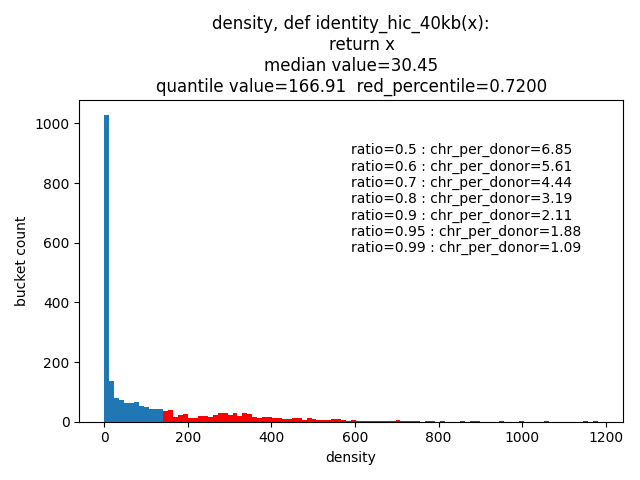
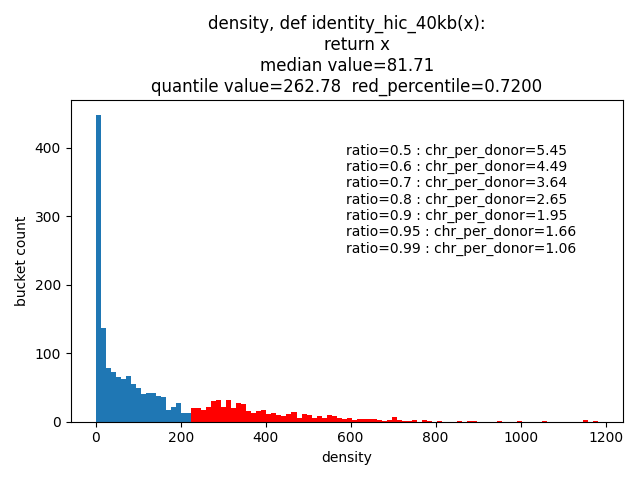
seek compare

diff --git a/DonorAnalyzer.py b/DonorAnalyzer.py
@@ -252,9 +252,10 @@ def main():
 
 
 def seek_hills_distrib(ratio, fid=16):
-    infoids_sorted_by_dens, infoids, thresholds = hist_patients(f_id=fid, ratio=0, dens_plot=False, seek_plot=False,
+    infoids_sorted_by_dens, sorted_denss, infoids, thresholds, thr_dens = hist_patients(f_id=fid, ratio=0, dens_plot=False, seek_plot=False,
                                                                 periphery_plot=False,
-                                                                cluster_plot=False)
+                                                                cluster_plot=False,
+                                                                dens_threshold=0.00001)
     cnt_left = 0
     cnt_right = 0
     sz = len(infoids)
@@ -491,9 +492,9 @@ def measure_chromos(chromo_clusters):
 
 
 def all_hists(ratio):
-    with DonorRepository() as rep:
-        own_donors = rep.get_random_frankenstein_donors()
-    iss = [18]
+    # with DonorRepository() as rep:
+    #     own_donors = rep.get_random_frankenstein_donors()
+    iss = [3, 19]
     # for i in range(1, 4):
     # threshold_hic_dens = 2.7495356
     for i in iss:
@@ -505,8 +506,9 @@ def all_hists(ratio):
                                                                                                               cluster_plot=False,
                                                                                                               cluster_threshold_sz=0,
                                                                                                               dens_threshold=0.000001,
-                                                                                                              types5plot=True,
-                                                                                                              own_donors=own_donors)
+                                                                                                              types5plot=True
+                                                                                                              # own_donors=own_donors
+                                                                                                              )
         threshold_hic_dens = 231.75531
         # threshold_hic_dens = THRESHOLD_DENSE
         denss_path = f'denssForR/{i}/denssForR{i}.npy'
@@ -1179,13 +1181,19 @@ class Tables(str, Enum):
 def frankenstein_hic_480kb_TEST2(x):
     return x
 
+
 def random_frankenstein_40kb(x):
     return x
+
+
+def f_hic_40kb_zero_power(x):
+    return 1
+
 
 if __name__ == '__main__':
     # main()
     # test_cnt_ids()
-    all_hists(ratio=0.72)
+    #all_hists(ratio=0.72)
     # cluster_size_test(ratio=0.71)
 
     # seek_test()
@@ -1205,20 +1213,20 @@ if __name__ == '__main__':
 
     # weighted_hist(11, 0.7)
 
-    # l, r = seek_hills_distrib(0.71, fid=11)
-    # print(l, r)
+    l, r = seek_hills_distrib(0.72, fid=3)
+    print(l, r)
 
     # find_the_most_diff_seek_pair(11, 0.75)
 
     # cool = cooler.Cooler('healthy_hics/new_cool_480kb.cool')
     #cool = cooler.Cooler('healthy_hics/GSM3564252_RWPE1_HiC_40k.normalized.matrix.cool')
-    # hic_oe_analyzer(cool=cool, f=identity_hic_40kb, _table=Tables.REAL, oe=False)
+    #hic_oe_analyzer(cool=cool, f=f_hic_40kb_zero_power, _table=Tables.REAL, oe=False)
 
     # with DonorRepository() as rep:
     #     own_donors = rep.get_random_frankenstein_donors()
     # hic_oe_analyzer(cool=cool, f=random_frankenstein_40kb, _table=Tables.SIMULATED_RANDOM, oe=False,
     #                 own_donors=own_donors)
 
-    #corr_test(3)
+    # corr_test(3)
 
     # cluster_sustainability_percentile_test()
